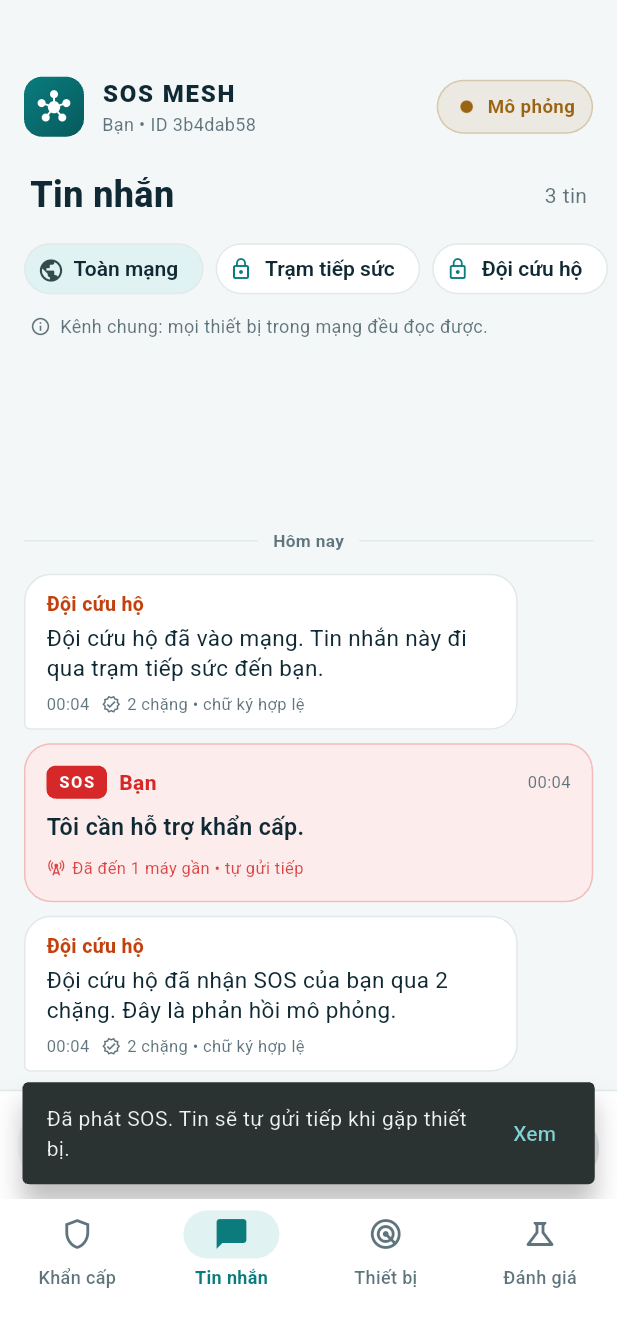
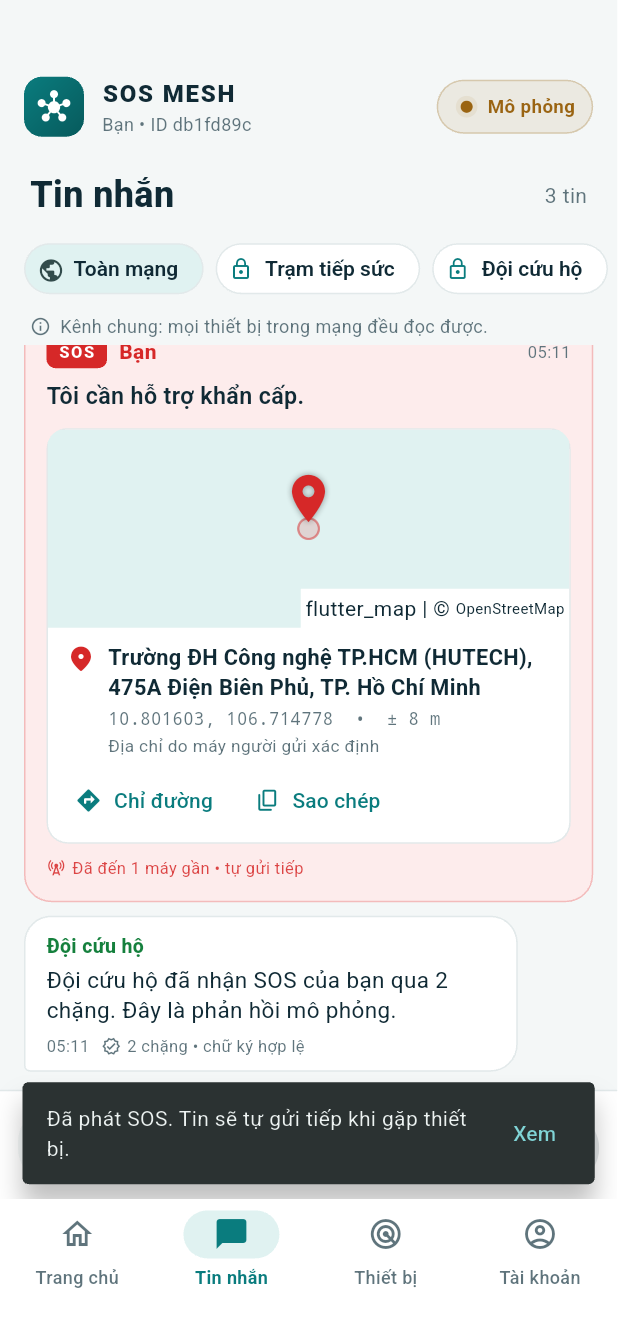
Document the 2.0 deployment and run the RLS tests and admin build in CI
docs/DEPLOY_V2.md walks through the Supabase project, auth settings, the
reset-code email template, the first admin, Vercel and a configured APK
build, with a post-deploy checklist and the known security limits. CI gains
a database job (PGlite RLS tests) and an admin job (next build). Version
2.0.0+2.

diff --git a/docs/DEPLOY_V2.md b/docs/DEPLOY_V2.md
@@ -1,0 +1,124 @@
+# Triển khai SOS Mesh 2.0
+
+Có ba phần cần dựng: database và tài khoản (Supabase), web admin (Vercel) và
+app Android build kèm địa chỉ máy chủ. App vẫn chạy được ở chế độ khách nếu
+chưa làm các bước này.
+
+## 1. Supabase
+
+1. Vào https://supabase.com, tạo project mới, chọn region **Southeast Asia
+   (Singapore)**. Lưu lại mật khẩu database.
+2. **Chạy migration.** Vào SQL Editor → New query, dán toàn bộ
+   `supabase/migrations/20261112000000_sos_mesh_v2.sql` rồi bấm Run. Kết quả
+   phải là *Success. No rows returned*.
+   - Nếu dùng CLI: `npx supabase login`, `npx supabase link --project-ref <ref>`,
+     rồi `npx supabase db push`.
+3. **Authentication → Sign In / Providers → Email**
+   - Bật Email. Nên bật *Confirm email*. Chỉ tắt khi demo trên lớp và muốn
+     đăng ký xong là vào ngay.
+   - Password: *Minimum length* = 8, *Password requirements* = letters and
+     digits. App cũng kiểm đúng quy tắc này.
+4. **Authentication → Emails → Reset Password.** App đặt lại mật khẩu bằng
+   mã 6 số, nên mẫu email phải có `{{ .Token }}`. Dán đoạn sau:
+
+   ```html
+   <h2>Đặt lại mật khẩu SOS Mesh</h2>
+   <p>Mã xác nhận của bạn: <b>{{ .Token }}</b></p>
+   <p>Nhập mã này trong ứng dụng. Mã hết hạn sau 1 giờ.</p>
+   ```
+5. **Authentication → URL Configuration → Site URL**: điền địa chỉ web admin
+   trên Vercel (bước 2). Link xác nhận email sẽ quay về trang này.
+6. **Project Settings → API Keys**: lấy *Project URL* và *Publishable key*
+   (dạng `sb_publishable_…`; project cũ thì là *anon key*).
+   - **Không bao giờ** dùng `service_role` hoặc *secret key* ở app hay web
+     admin. Hai phần đó không cần key này, mọi quyền đã nằm trong RLS.
+
+Email mặc định của Supabase chỉ gửi được vài thư mỗi giờ. Như vậy đủ để
+demo. Dùng thật thì cấu hình SMTP riêng (Authentication → Emails → SMTP).
+
+## 2. Web admin trên Vercel
+
+1. https://vercel.com → Add New → Project → Import repo
+   `LixusThinh/ble_emergency_app`.
+2. **Root Directory**: `admin`. Framework Next.js được nhận tự động.
+3. **Environment Variables**, cho cả Production và Preview:
+
+   | Tên | Giá trị |
+   |---|---|
+   | `SUPABASE_URL` | Project URL |
+   | `SUPABASE_PUBLISHABLE_KEY` | Publishable key |
+
+4. Bấm Deploy, lấy URL (ví dụ `https://sos-mesh-admin.vercel.app`) rồi
+   điền vào Site URL ở bước 1.5.
+
+Chạy thử trên máy: `cd admin`, chép `.env.example` thành `.env.local`, điền
+2 biến, chạy `npm install` rồi `npm run dev` và mở http://localhost:3000.
+
+## 3. Tạo quản trị viên đầu tiên
+
+1. Đăng ký một tài khoản trong app, hoặc tạo ở Supabase → Authentication →
+   Users → Add user.
+2. Mở `supabase/seed_admin.sql`, sửa email rồi chạy trong SQL Editor. Kết
+   quả phải có đúng một dòng với `role = admin`.
+3. Đăng nhập web admin bằng tài khoản đó. Tài khoản thường sẽ bị từ chối và
+   bị đăng xuất ngay.
+
+Từ quản trị viên thứ hai trở đi thì cấp quyền ngay trong web admin
+(Người dùng → Đổi vai trò). Mọi thao tác đều được ghi vào Nhật ký quản trị.
+
+## 4. Build app có kết nối máy chủ
+
+Tạo file `supabase.env.json` ở thư mục gốc repo. File này đã nằm trong
+`.gitignore`, không commit:
+
+```json
+{
+  "SUPABASE_URL": "https://xxxxxxxxxxxx.supabase.co",
+  "SUPABASE_PUBLISHABLE_KEY": "sb_publishable_xxxxxxxx"
+}
+```
+
+```bash
+flutter build apk --release --dart-define-from-file=supabase.env.json
+adb install -r build/app/outputs/flutter-apk/app-release.apk
+```
+
+Build không có file này thì app chạy chế độ khách: SOS, nhắn tin và địa chỉ
+vẫn đủ, chỉ ẩn phần đăng nhập.
+
+## 5. Kiểm tra sau khi triển khai
+
+- [ ] App: đăng ký → nhận email xác nhận → đăng nhập → tab Tài khoản hiện hồ sơ.
+- [ ] App: sửa hồ sơ khẩn cấp → web admin → Người dùng thấy thông tin mới.
+- [ ] App: bật mô phỏng, gửi SOS → web admin → SOS (bật "Gồm mô phỏng") thấy
+      địa chỉ, bản đồ, nút chỉ đường.
+- [ ] Web admin: đổi trạng thái SOS → Nhật ký quản trị có dòng tương ứng.
+- [ ] Web admin: khóa một tài khoản thử → app của tài khoản đó báo "Tài khoản
+      đã bị khóa", SOS Bluetooth vẫn gửi được.
+- [ ] Đăng nhập web admin bằng tài khoản thường → bị từ chối.
+- [ ] Quên mật khẩu trong app → nhận mã 6 số → đặt mật khẩu mới được.
+
+## Bảo mật: những gì đã làm và còn giới hạn
+
+**Đã làm**
+
+- RLS bật ở mọi bảng, quyền cấp theo từng cột. Bộ test `supabase/tests`
+  (15 test, chạy trong CI) kiểm từng quy tắc: người dùng không đọc được dữ
+  liệu của nhau, không tự nâng quyền, không sửa hay xóa nhật ký; admin chỉ sửa
+  dữ liệu qua hàm có audit; tài khoản bị khóa không ghi được gì.
+- Web admin không có key nào ở trình duyệt. Đăng nhập chạy ở server action,
+  cookie phiên là httpOnly. CSP có nonce, chặn nhúng iframe, có HSTS.
+- App lưu phiên đăng nhập trong database đã mã hóa bằng khóa Android
+  Keystore.
+- Nhật ký chỉ ghi việc gì đã xảy ra, không ghi nội dung tin nhắn. Tin riêng
+  vẫn mã hóa đầu cuối và không bao giờ lên máy chủ. Vị trí chỉ lên máy chủ
+  khi người dùng đã đăng nhập và gửi hoặc nhận SOS.
+
+**Giới hạn hiện tại**
+
+- Supabase thấy mọi lần đăng nhập web admin đến từ IP của Vercel, nên giới
+  hạn số lần thử theo IP kém hiệu quả. Admin cần đặt mật khẩu mạnh. Có thể
+  bật MFA của Supabase ở bản sau.
+- SOS chuyển lên giúp người khác (cầu nối) được tin theo máy chuyển lên. Máy
+  chủ chưa tự kiểm chữ ký Ed25519 của gói mesh. Web admin ghi rõ SOS do ai
+  chuyển lên.

diff --git a/README.md b/README.md
@@ -10,6 +10,14 @@ Flutter + Kotlin · Android 8.0 trở lên (API 26) · Đồ án môn học
 
 ---
 
+## Mới trong 2.0
+
+- **SOS kèm địa chỉ thật** thay cho tọa độ trần: số nhà, đường, phường, quận (Android Geocoder, dự phòng OpenStreetMap), độ chính xác ± m, bản đồ nhỏ có ghim và nút **Chỉ đường** mở Google Maps. Người gửi không có mạng thì máy nhận tự tra khi có mạng.
+- **Trang chủ, đăng nhập/đăng ký, hồ sơ khẩn cấp** (số điện thoại, người liên hệ, nhóm máu, ghi chú y tế). Không đăng nhập vẫn gửi SOS được.
+- **Đồng bộ lên Supabase** khi có mạng: nhật ký hoạt động và SOS. Máy có Internet còn chuyển lên các SOS nghe được qua mesh, làm cầu nối cho người không có mạng.
+- **Web admin** (`admin/`, Next.js trên Vercel): xem và xử lý SOS trên bản đồ, quản lý người dùng (khóa, đổi vai trò), xem nhật ký hoạt động và nhật ký quản trị.
+- Bảo mật nằm ở database: RLS trên mọi bảng, có bộ test riêng (`supabase/tests`). Xem [kế hoạch](docs/V2_PLAN.md) và [hướng dẫn triển khai](docs/DEPLOY_V2.md).
+
 ## Chức năng
 
 ### 1. Khẩn cấp
@@ -141,6 +149,7 @@ docs/              Kiến trúc, kế hoạch kiểm thử, kết quả xác min
 
 ## Tài liệu
 
+- [Kế hoạch 2.0](docs/V2_PLAN.md) · [Triển khai Supabase + Vercel](docs/DEPLOY_V2.md)
 - [Kiến trúc và giao thức](docs/ARCHITECTURE.md)
 - [Kế hoạch kiểm thử](docs/TEST_PLAN.md)
 - [Kết quả xác minh](docs/VERIFICATION.md)
